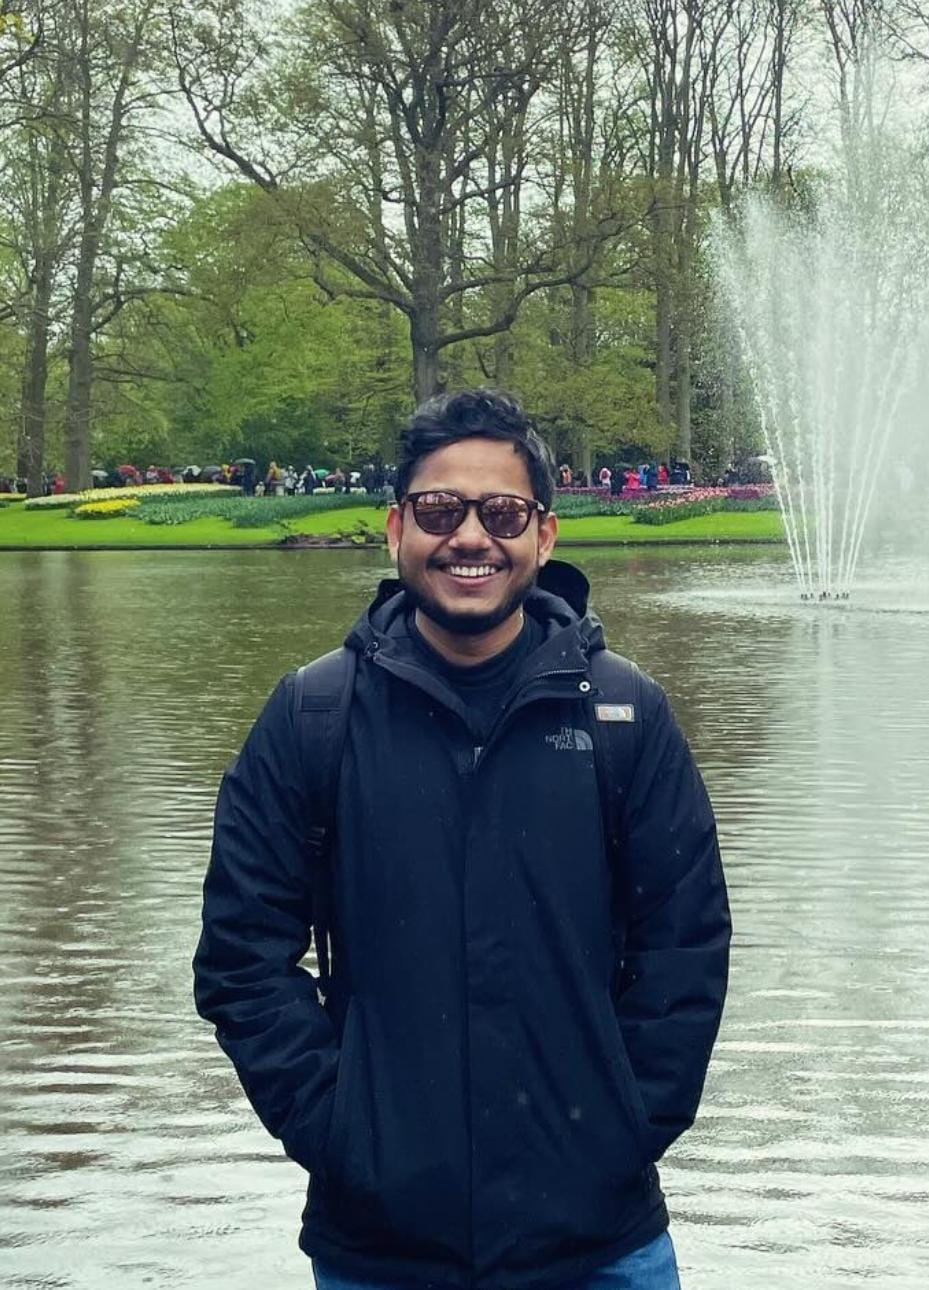
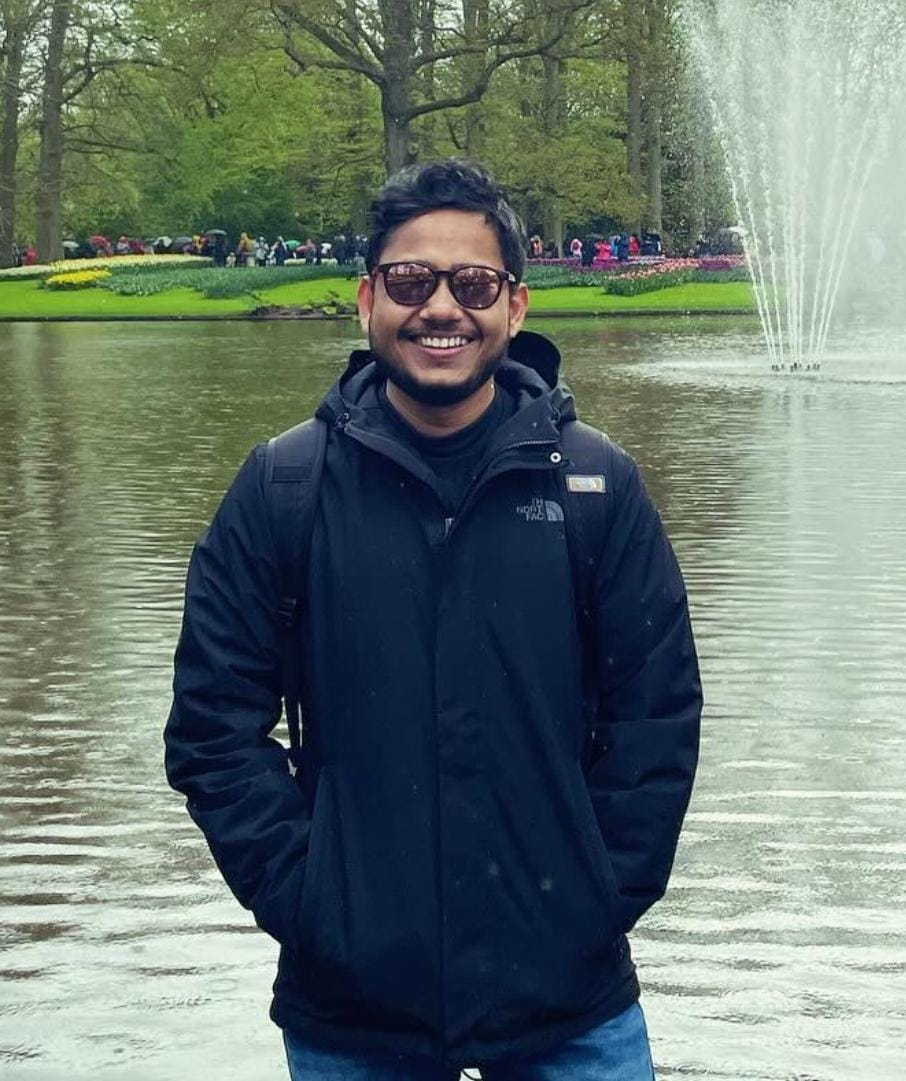
first commit

diff --git a/README.md b/README.md
@@ -137,7 +137,7 @@ Thanks go to all these wonderful collaborations for their contribution towards t
     </td>
     <td align="center">
       <a href="https://www.linkedin.com/in/madhukar-dwivedi-42748b145/">
-        <img src="./images/madhukar.jpeg" width="200px" height="200px" alt="Madhukar"/>
+        <img src="./images/madhukar.jpeg" width="200px" alt="Madhukar"/>
         <br />
         <sub><b>Madhukar Dwivedi</b></sub>
       </a>
